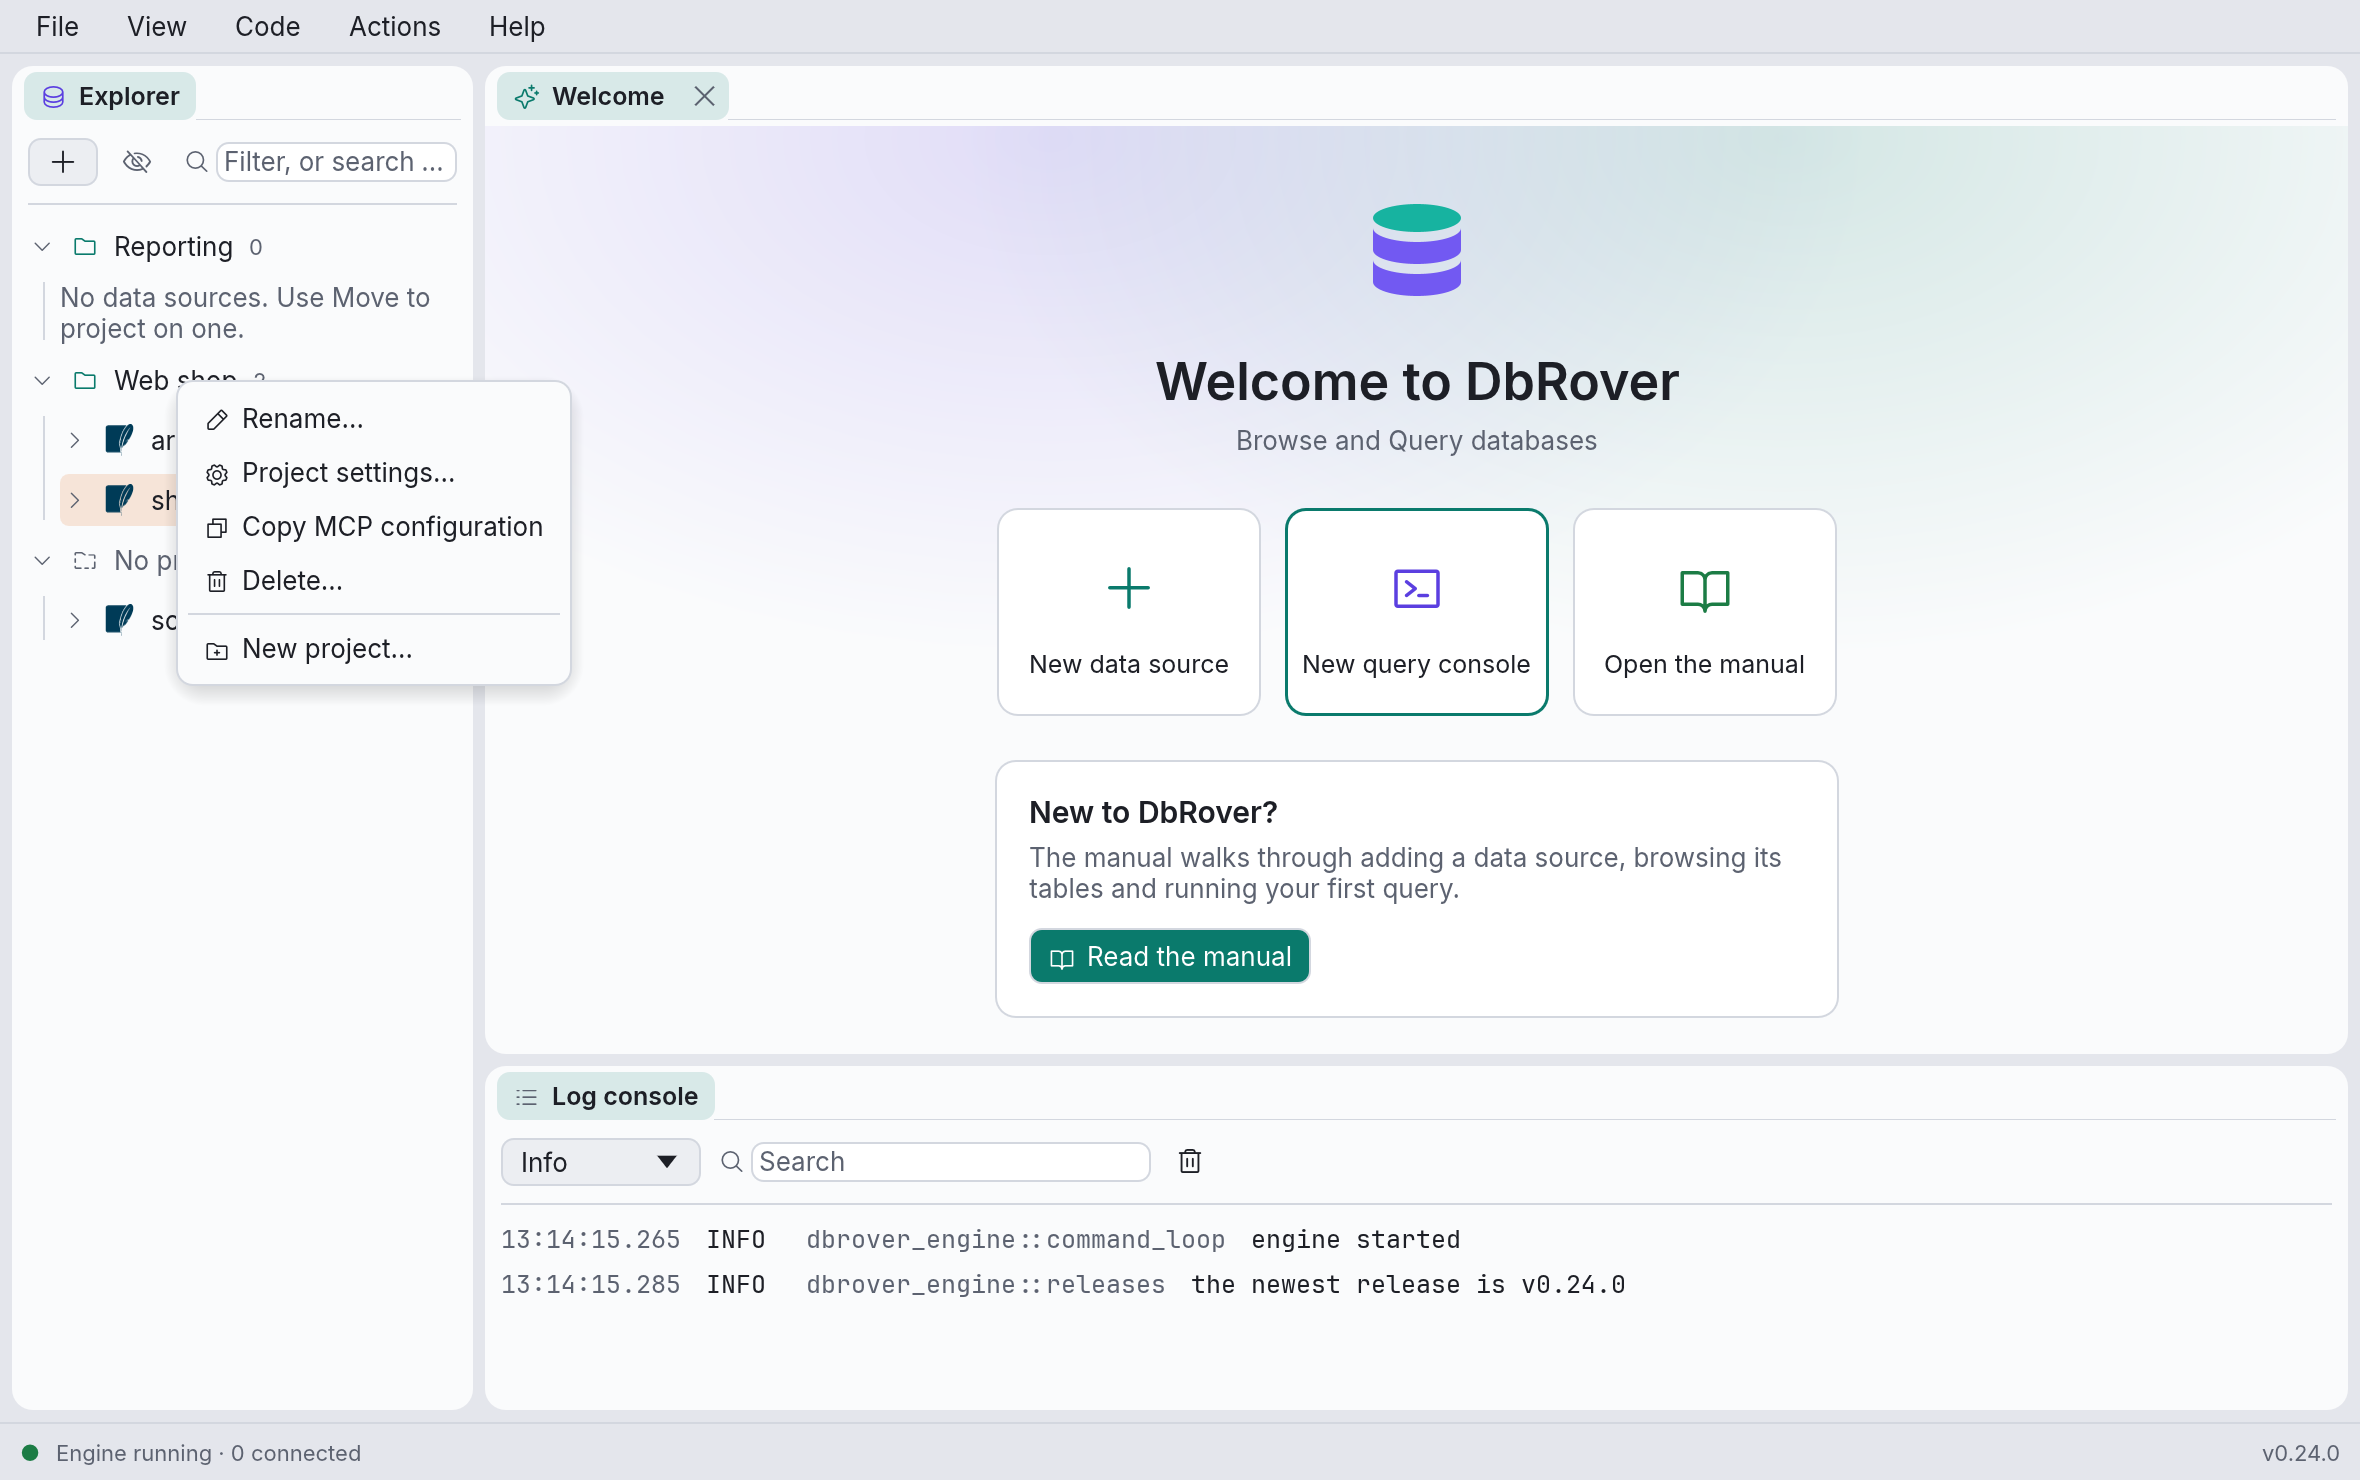
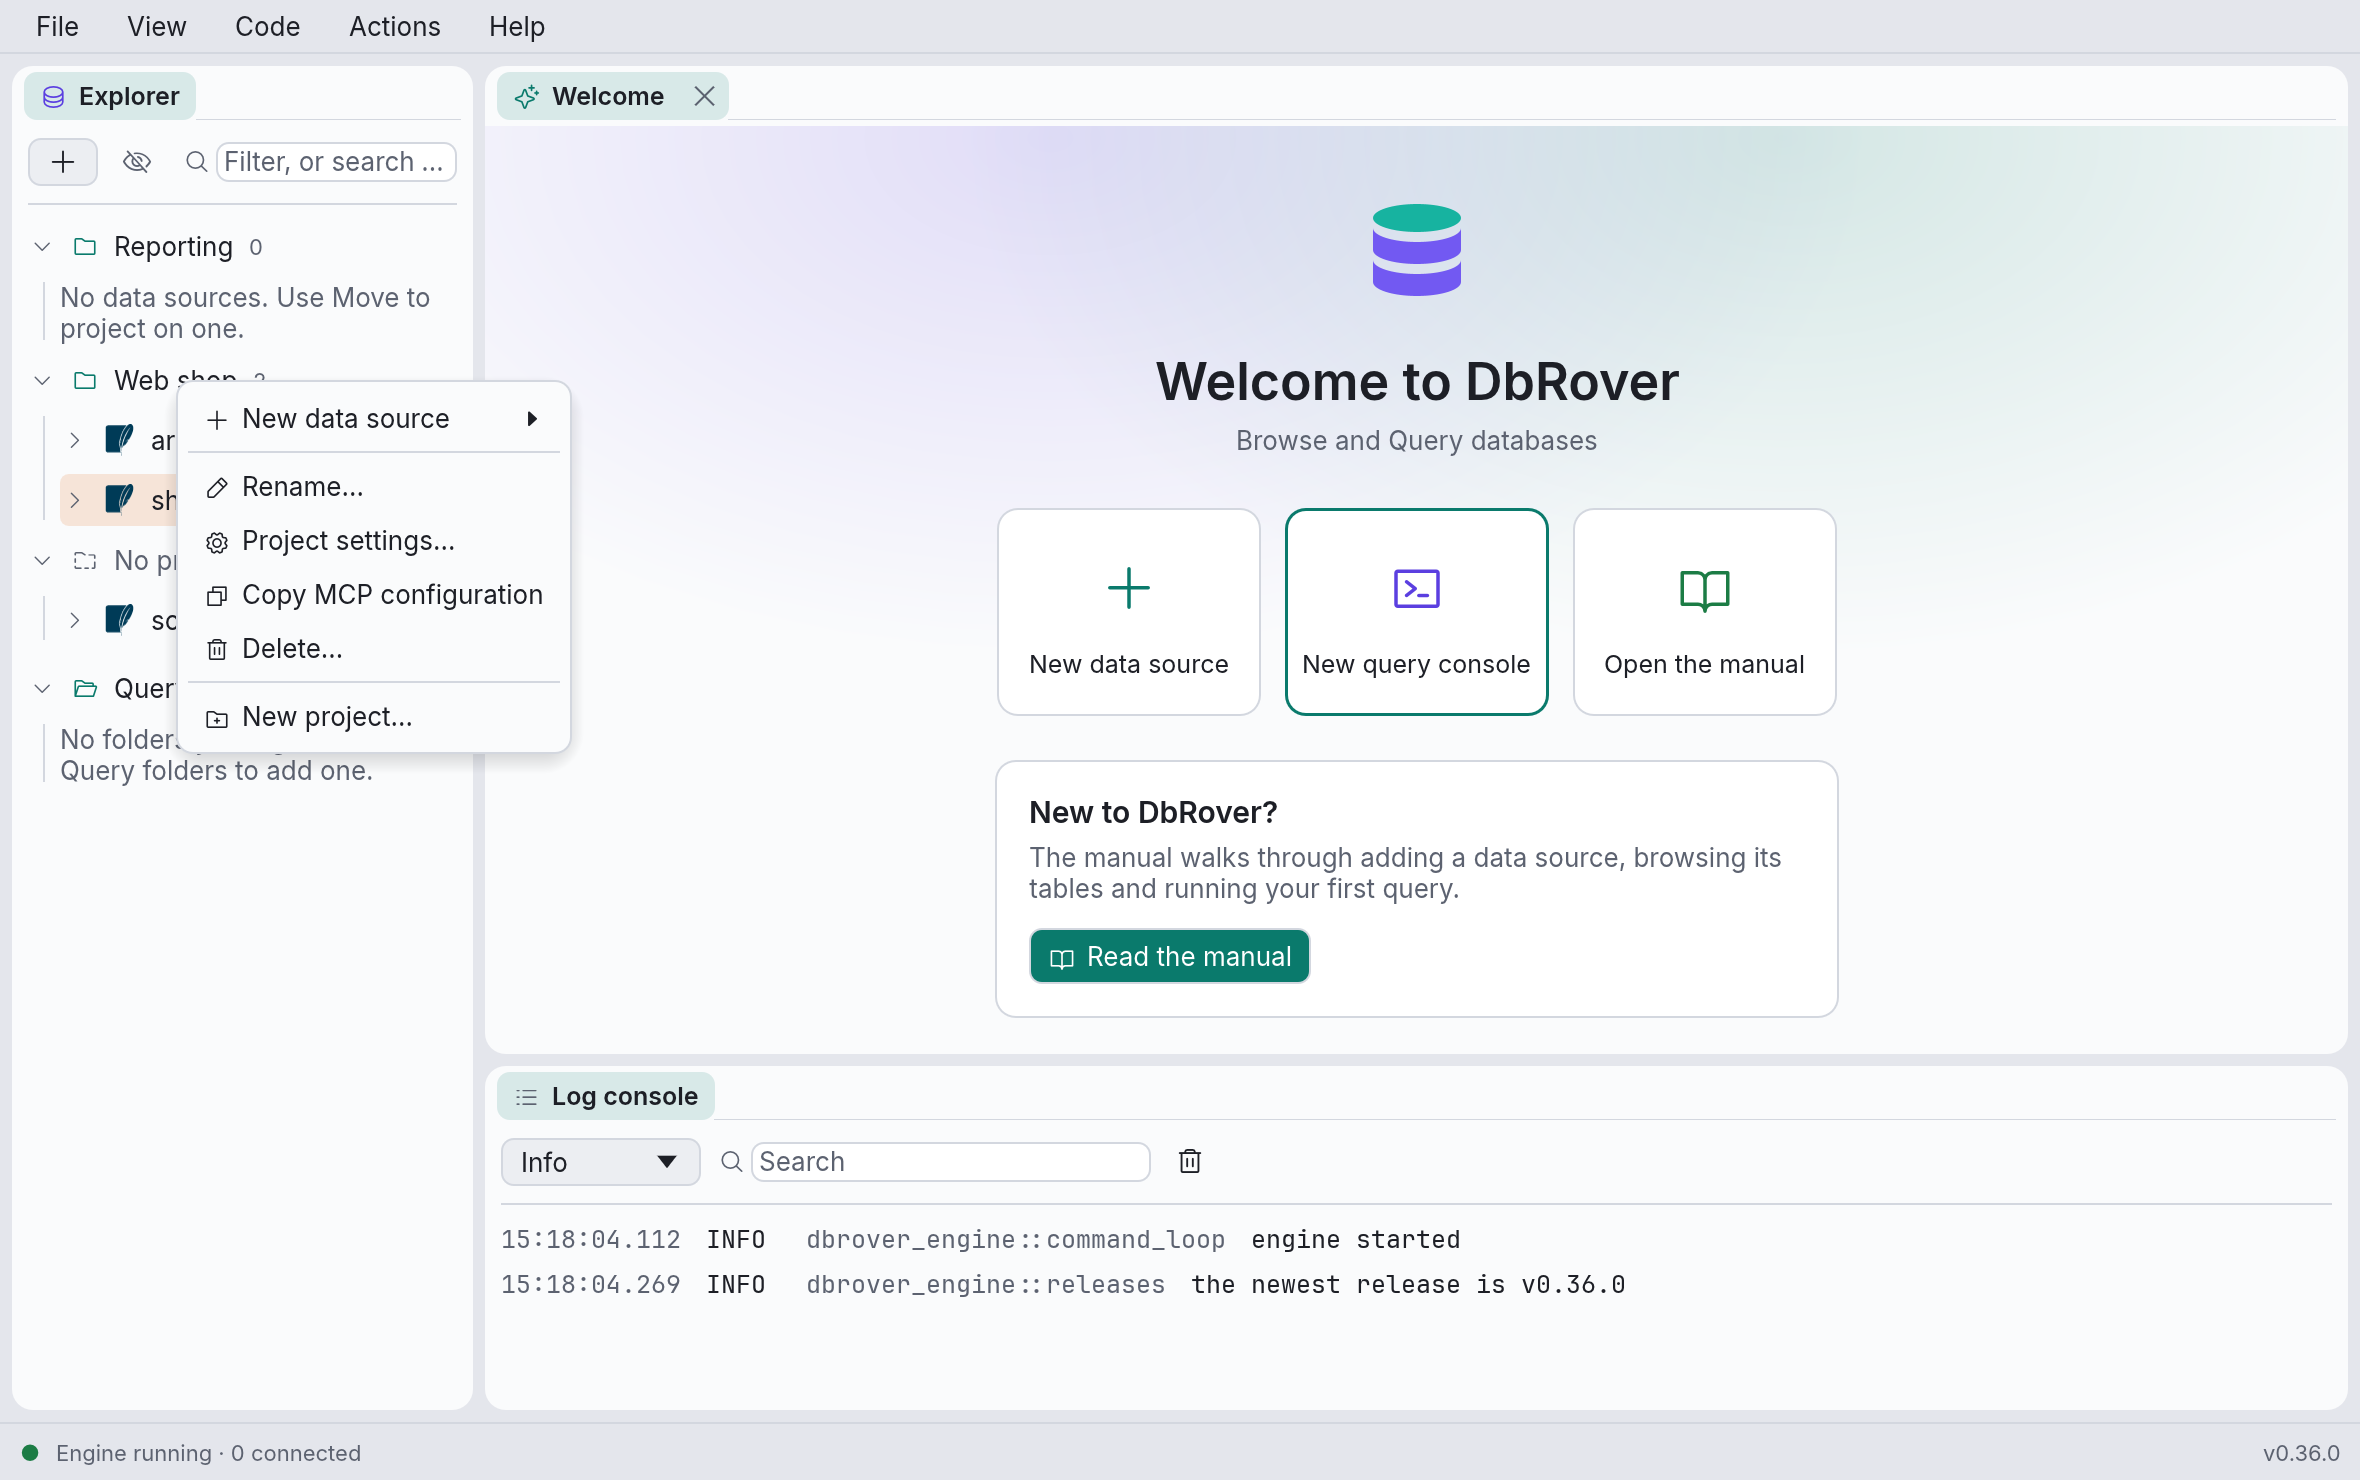
docs(book): creating a data source in a project, and dragging one there (#660)
The Projects chapter gains the two ways D9 added: New data source on a
project header's menu, and dragging a data source's row onto a header,
with what the highlight means, what No project does, and the edge
scrolling. Adding one says a data source added from + is in no project
and points at the header's menu for the other way; the data source menu
table says the drag does what Move to project does.

The project menu's picture is rendered again, since the menu now opens
with New data source. It is the only scene D9 changes.

D9 is built, so the roadmap entry and the design page say so, and the
design page's demo note says what to try.

Changed region(s): [[0.0309, 0.2797, 0.2475, 0.5284], [0.9589, 0.9635, 0.9898, 0.9946], [0.2475, 0.8392, 0.2784, 0.8703]]

diff --git a/docs/explorer-projects.md b/docs/explorer-projects.md
@@ -1,6 +1,6 @@
 # Data sources into projects
 
-Status: **planned** (2026-11-20). This is the design of D9 in the
+Status: **built** (2026-11-20). This is the design of D9 in the
 [roadmap](roadmap.md#d9--data-sources-into-projects-in-one-step).
 
 P0 gave the explorer projects: data sources grouped under foldable headers, with everything else
@@ -203,4 +203,21 @@ tests are in three places, each where its outcome is visible:
 
 ## Demo note
 
-Written once D9 is built.
+Built. In the explorer, right-click a project header → **New data source ›** → **SQLite**, give
+it a file and save: the data source appears under that header, with no move afterwards. The same
+item is on **No project**'s header, where it creates in none, and the toolbar's `+` and the
+Welcome tab are unchanged.
+
+Then pick a data source up by its name and drag it onto another project's header: the header is
+tinted and outlined while it will take it, and the name follows the cursor. Drop it and it moves.
+Drop it on **No project** and it leaves its project; drop it on the header it already sits under,
+or on another data source, a table or the **Reports** section, and nothing happens. With more
+data sources than the panel shows, drag one against the top or bottom edge and the list scrolls
+while you hold it there. Expanded or collapsed makes no difference, and the row keeps its click,
+double-click and context menu.
+
+Covered by explorer tests of what each kind of target does (the two moves, and silence over its
+own group and over another data source), an app test that drags a data source onto a header and
+waits for `data_sources.toml` to show it in that project, an app test of the whole create-in-a-
+project flow from the header's menu to the saved file, a test that the header's expander still
+folds the group under the drop target, and a table test of the edge-band scrolling.

diff --git a/book/src/data-sources.md b/book/src/data-sources.md
@@ -14,6 +14,9 @@ and **Amazon Athena** under **Amazon Web Services**, **BigQuery** under **Google
 sign in with your cloud account rather than a password: see [DynamoDB](dynamodb.md),
 [Athena and Trino](athena-trino.md) and [BigQuery](bigquery.md).
 
+A data source added this way is in no project. To put it straight into one, use **New data
+source ›** on that project's header instead; see [Projects](explorer.md#projects).
+
 ![The New PostgreSQL data source dialog](images/data-source-dialog.png)
 
 Every kind has:
@@ -463,7 +466,7 @@ Right-click a data source in the explorer for:
 | **New › Schema…** | Creates a database, on MySQL, MariaDB and ClickHouse, whose schemas are databases. See [Views and schemas](views-schemas.md#new-schema). |
 | **New › User…**, **New › Role…** | Creates a role that can log in, or one that can't, on PostgreSQL. See [Users and roles](users-roles.md). |
 | **Edit…** | Opens the dialog with the saved settings. |
-| **Move to project ›** | Puts the data source in a project, in **No project**, or in a new project. See [Projects](explorer.md#projects). |
+| **Move to project ›** | Puts the data source in a project, in **No project**, or in a new project. Dragging its row onto a project header does the same. See [Projects](explorer.md#projects). |
 | **Delete…** | Asks for confirmation, then removes the data source and deletes its saved password. |
 | Your actions | [Custom actions](customising.md#actions) that apply to data sources, at the end of the menu. |
 

diff --git a/book/src/explorer.md b/book/src/explorer.md
@@ -15,10 +15,18 @@ sources on their own, as before.
 
 ![Data sources grouped into projects, with Move to project open](images/explorer-projects.png)
 
+- **New data source ›** on a project header's menu creates the data source in that project,
+  rather than in **No project** to be moved afterwards. It offers the same engines as the **+**
+  menu, and the dialog is the usual one. On the **No project** header it means what **+** means.
 - **New project…** is in the **+** menu, on every project header's menu, and at the bottom of
   **Move to project**. From **Move to project**, the data source moves into the new project.
 - **Move to project ›** on a data source's menu lists the projects and **No project**; the one
   it is in now is marked.
+- **Drag a data source onto a header** to move it there. Pick it up by its name and drop it on
+  the project you want; the header you are over is outlined while it will take it. Dropping it
+  on **No project** takes it out of its project, and dropping it on the group it is already in
+  does nothing. Dragging against the top or bottom of the panel scrolls the list, so a project
+  further down is still within reach.
 - **Rename…** on a project changes only its name.
 - **Delete…** on a project moves its data sources to **No project** first. No data source is
   deleted.

diff --git a/docs/roadmap.md b/docs/roadmap.md
@@ -3478,4 +3478,4 @@ PR each:
 between projects, and out of one, by dragging its row onto a header; the toolbar's `+`, the
 Welcome tab and **Move to project ›** keep working as they did.
 
-**Demo note:** written once D9 is built.
+**Demo note:** built; the design page's demo note says what to try.
